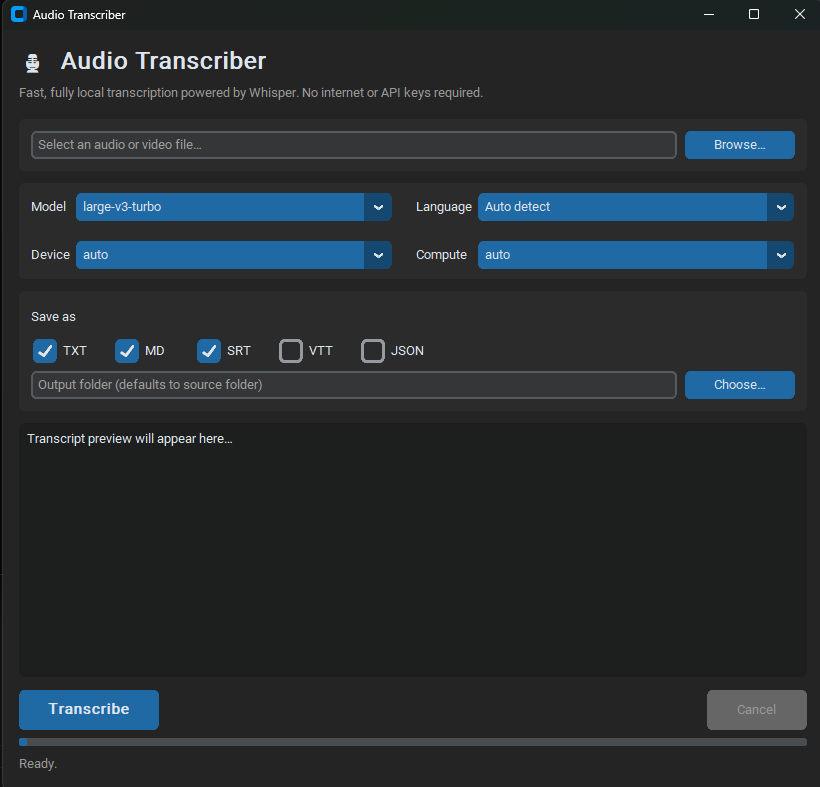
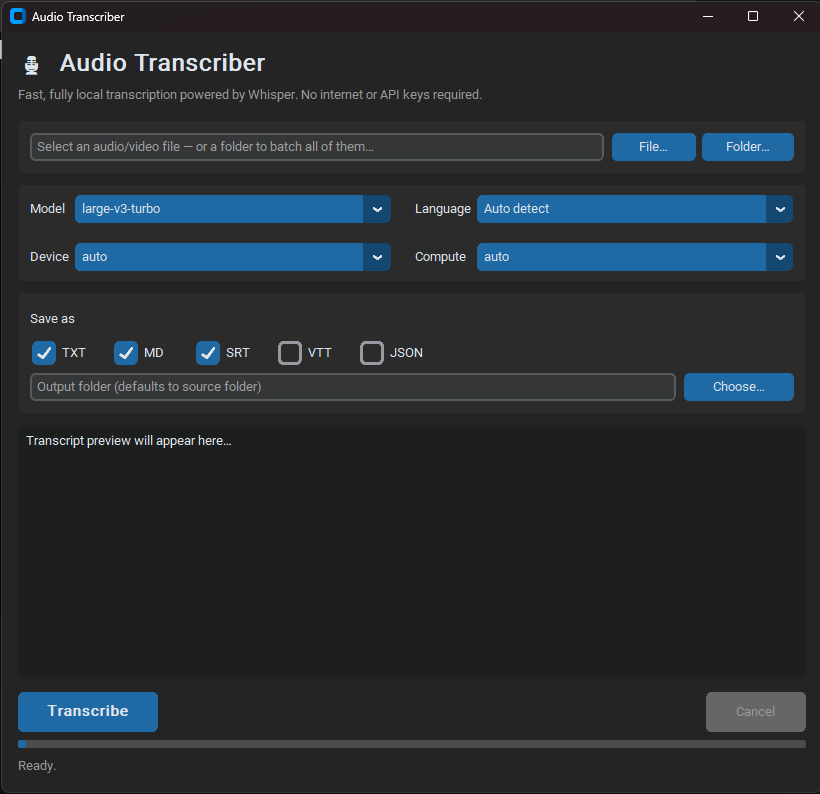
Added folder processing

diff --git a/src/parrotia/app.py b/src/parrotia/app.py
@@ -49,7 +49,7 @@ class TranscriberApp(ctk.CTk):
         self._cancel_event = threading.Event()
         self._events: "queue.Queue[tuple]" = queue.Queue()
         self._result: Optional[TranscriptionResult] = None
-        self._input_path: Optional[Path] = None
+        self._total_jobs = 0
 
         self._build_ui()
         self.after(100, self._drain_events)
@@ -75,18 +75,22 @@ class TranscriberApp(ctk.CTk):
         )
         subtitle.grid(row=1, column=0, sticky="w", padx=16, pady=(0, 12))
 
-        # --- File selection -------------------------------------------------
+        # --- Input selection (a single file, or a whole folder) -------------
         file_frame = ctk.CTkFrame(self)
         file_frame.grid(row=2, column=0, sticky="ew", **pad)
         file_frame.grid_columnconfigure(0, weight=1)
 
         self.file_entry = ctk.CTkEntry(
-            file_frame, placeholder_text="Select an audio or video file…"
+            file_frame,
+            placeholder_text="Select an audio/video file — or a folder to batch all of them…",
         )
         self.file_entry.grid(row=0, column=0, sticky="ew", padx=(12, 8), pady=12)
         ctk.CTkButton(
-            file_frame, text="Browse…", width=110, command=self._browse_input
-        ).grid(row=0, column=1, padx=(0, 12), pady=12)
+            file_frame, text="File…", width=84, command=self._browse_input
+        ).grid(row=0, column=1, padx=(0, 6), pady=12)
+        ctk.CTkButton(
+            file_frame, text="Folder…", width=92, command=self._browse_folder
+        ).grid(row=0, column=2, padx=(0, 12), pady=12)
 
         # --- Options --------------------------------------------------------
         options = ctk.CTkFrame(self)
@@ -184,6 +188,22 @@ class TranscriberApp(ctk.CTk):
             self.file_entry.delete(0, "end")
             self.file_entry.insert(0, path)
 
+    def _browse_folder(self) -> None:
+        path = filedialog.askdirectory(
+            title="Select a folder of audio/video files")
+        if path:
+            self.file_entry.delete(0, "end")
+            self.file_entry.insert(0, path)
+
+    @staticmethod
+    def _collect_audio_files(folder: Path) -> "list[Path]":
+        """Supported audio/video files directly inside ``folder``, sorted."""
+        exts = {ext.lower() for ext in SUPPORTED_EXTENSIONS}
+        return sorted(
+            p for p in folder.iterdir()
+            if p.is_file() and p.suffix.lower() in exts
+        )
+
     def _browse_outdir(self) -> None:
         path = filedialog.askdirectory(title="Select output folder")
         if path:
@@ -196,22 +216,41 @@ class TranscriberApp(ctk.CTk):
 
         raw_path = self.file_entry.get().strip().strip('"')
         if not raw_path:
-            messagebox.showwarning("No file", "Please choose an audio file first.")
+            messagebox.showwarning(
+                "No input", "Please choose an audio file or a folder first.")
             return
         path = Path(raw_path)
-        if not path.is_file():
-            messagebox.showerror("Not found", f"File does not exist:\n{raw_path}")
+
+        # Resolve the input to a list of files to transcribe: a single file, or
+        # every supported audio/video file directly inside a chosen folder.
+        if path.is_dir():
+            jobs = self._collect_audio_files(path)
+            if not jobs:
+                messagebox.showwarning(
+                    "No audio files",
+                    f"No supported audio/video files were found in:\n{raw_path}")
+                return
+        elif path.is_file():
+            jobs = [path]
+        else:
+            messagebox.showerror(
+                "Not found", f"No such file or folder:\n{raw_path}")
             return
-        if not any(var.get() for var in self.format_vars.values()):
+
+        selected_formats = [f for f, v in self.format_vars.items() if v.get()]
+        if not selected_formats:
             messagebox.showwarning(
                 "No format", "Select at least one output format.")
             return
+        outdir_raw = self.outdir_entry.get().strip().strip('"')
 
-        self._input_path = path
+        self._total_jobs = len(jobs)
         self._cancel_event.clear()
         self._set_running(True)
         self._set_preview("")
-        self._set_status("Starting…")
+        self._set_status(
+            f"Starting… ({self._total_jobs} files)"
+            if self._total_jobs > 1 else "Starting…")
         self.progress.set(0.0)
 
         params = dict(
@@ -221,7 +260,9 @@ class TranscriberApp(ctk.CTk):
             compute_type=self.compute_var.get(),
         )
         self._worker = threading.Thread(
-            target=self._run_worker, args=(str(path), params), daemon=True)
+            target=self._run_worker,
+            args=(jobs, params, selected_formats, outdir_raw),
+            daemon=True)
         self._worker.start()
 
     def _cancel_transcription(self) -> None:
@@ -229,20 +270,67 @@ class TranscriberApp(ctk.CTk):
         self._set_status("Cancelling…")
 
     # ------------------------------------------------------------- worker ---
-    def _run_worker(self, path: str, params: dict) -> None:
+    def _run_worker(self, jobs: "list[Path]", params: dict,
+                    selected_formats: "list[str]", outdir_raw: str) -> None:
+        """Transcribe every file in ``jobs`` in turn, on this daemon thread.
+
+        Progress is reported as an overall fraction across all files; a
+        per-file failure is collected and the batch continues. Output files are
+        written here (pure disk I/O on a snapshot of the settings, so no Tk
+        widgets are touched off the main thread).
+        """
+        total = len(jobs)
+        written_all: "list[Path]" = []
+        errors: "list[tuple[Path, str]]" = []
         try:
-            result = self._transcriber.transcribe(
-                path,
-                progress_callback=lambda frac, msg: self._events.put(
-                    ("progress", frac, msg)),
-                cancel_event=self._cancel_event,
-                **params,
-            )
-            self._events.put(("done", result))
-        except TranscriptionCancelled:
-            self._events.put(("cancelled",))
-        except Exception as exc:  # surfaced to the user in the GUI thread
+            for index, source in enumerate(jobs):
+                if self._cancel_event.is_set():
+                    self._events.put(("cancelled",))
+                    return
+
+                base, span = index / total, 1 / total
+
+                def report(frac: float, msg: str, _i=index, _name=source.name) -> None:
+                    overall = base + span * frac
+                    prefix = f"[{_i + 1}/{total}] {_name} — " if total > 1 else ""
+                    self._events.put(("progress", overall, prefix + msg))
+
+                try:
+                    result = self._transcriber.transcribe(
+                        str(source),
+                        progress_callback=report,
+                        cancel_event=self._cancel_event,
+                        **params,
+                    )
+                    written = self._write_result(
+                        result, source, selected_formats, outdir_raw)
+                except TranscriptionCancelled:
+                    self._events.put(("cancelled",))
+                    return
+                except Exception as exc:  # don't let one bad file abort the batch
+                    errors.append((source, str(exc)))
+                    continue
+
+                written_all.extend(written)
+                self._events.put(("file_done", source, result, written))
+
+            self._events.put(("batch_done", written_all, errors, total))
+        except Exception as exc:  # truly unexpected — surface in the GUI thread
             self._events.put(("error", exc, traceback.format_exc()))
+
+    @staticmethod
+    def _write_result(result: TranscriptionResult, source: Path,
+                      selected_formats: "list[str]", outdir_raw: str) -> "list[Path]":
+        outdir = Path(outdir_raw) if outdir_raw else source.parent
+        outdir.mkdir(parents=True, exist_ok=True)
+        stem = source.stem
+        written = []
+        for fmt in selected_formats:
+            extension, writer = formats.WRITERS[fmt]
+            target = outdir / f"{stem}{extension}"
+            target.write_text(writer(result), encoding="utf-8")
+            written.append(target)
+        return written
 
     def _drain_events(self) -> None:
         try:
@@ -259,8 +347,10 @@ class TranscriberApp(ctk.CTk):
             _, fraction, message = event
             self.progress.set(fraction)
             self._set_status(message)
-        elif kind == "done":
-            self._on_done(event[1])
+        elif kind == "file_done":
+            self._on_file_done(event[1], event[2])
+        elif kind == "batch_done":
+            self._on_batch_done(event[1], event[2], event[3])
         elif kind == "cancelled":
             self._set_running(False)
             self.progress.set(0.0)
@@ -271,42 +361,38 @@ class TranscriberApp(ctk.CTk):
             self._set_status("Error.")
             messagebox.showerror("Transcription failed", str(event[1]))
 
-    def _on_done(self, result: TranscriptionResult) -> None:
+    def _on_file_done(self, source: Path, result: TranscriptionResult) -> None:
+        # Show the just-finished transcript; in batch mode prefix a small header
+        # so it's clear which file the preview belongs to.
         self._result = result
-        self.progress.set(1.0)
-        self._set_preview(formats.to_txt(result))
-        try:
-            written = self._write_outputs(result)
-        except Exception as exc:
-            self._set_running(False)
-            messagebox.showerror("Could not save files", str(exc))
-            return
+        text = formats.to_txt(result)
+        if self._total_jobs > 1:
+            text = f"▸ {source.name}\n\n{text}"
+        self._set_preview(text)
+
+    def _on_batch_done(self, written: "list[Path]", errors: list, total: int) -> None:
         self._set_running(False)
+        self.progress.set(1.0)
+        ok = total - len(errors)
+
+        if total == 1 and not errors:
+            self._set_status(
+                "Done. Saved: " + ", ".join(p.name for p in written))
+            messagebox.showinfo(
+                "Transcription complete",
+                "Saved files:\n" + "\n".join(str(p) for p in written))
+            return
+
         self._set_status(
-            f"Done — {len(result.segments)} segments. Saved: "
-            + ", ".join(p.name for p in written)
-        )
-        messagebox.showinfo(
-            "Transcription complete",
-            "Saved files:\n" + "\n".join(str(p) for p in written),
-        )
-
-    def _write_outputs(self, result: TranscriptionResult) -> list:
-        assert self._input_path is not None
-        outdir_raw = self.outdir_entry.get().strip().strip('"')
-        outdir = Path(outdir_raw) if outdir_raw else self._input_path.parent
-        outdir.mkdir(parents=True, exist_ok=True)
-        stem = self._input_path.stem
-
-        written = []
-        for fmt, var in self.format_vars.items():
-            if not var.get():
-                continue
-            extension, writer = formats.WRITERS[fmt]
-            target = outdir / f"{stem}{extension}"
-            target.write_text(writer(result), encoding="utf-8")
-            written.append(target)
-        return written
+            f"Done — {ok}/{total} files transcribed"
+            + (f", {len(errors)} failed." if errors else ", all saved."))
+        lines = [f"Transcribed {ok} of {total} file(s); "
+                 f"saved {len(written)} output file(s)."]
+        if errors:
+            lines.append("")
+            lines.append("Failed:")
+            lines.extend(f"  • {src.name}: {msg}" for src, msg in errors)
+        messagebox.showinfo("Batch complete", "\n".join(lines))
 
     # -------------------------------------------------------------- state ---
     def _set_running(self, running: bool) -> None:

diff --git a/README.md b/README.md
@@ -15,6 +15,7 @@
 
 - **State-of-the-art models** — `tiny` → `large-v3`, plus the fast `large-v3-turbo` and `distil-large-v3` variants
 - **Any language** — auto-detect, or pin a specific language for better accuracy
+- **Single file or whole folder** — transcribe one file, or point the app at a folder to batch every audio/video file inside it
 - **Multiple export formats** — `txt`, `md`, `srt`, `vtt`, `json` — pick any combination
 - **CPU and GPU support** — auto-detects your hardware; gracefully falls back to CPU if the GPU is unavailable
 - **Responsive UI** — transcription runs in a background thread with a live progress bar and a cancel button; the window never freezes
@@ -80,9 +81,9 @@ Or use the platform launcher (runs from source; edit the `PYTHON` variable insid
 | Windows  | double-click `run.bat` |
 | macOS / Linux | `chmod +x run.sh && ./run.sh` |
 
-1. **Browse** to an audio or video file
+1. Pick a single audio/video **File…**, or a **Folder…** to transcribe every supported file inside it
 2. Choose a **model**, **language**, **device**, and **output formats**
-3. Click **Transcribe** — results are saved next to the source file (or in a folder you choose) and previewed in the window
+3. Click **Transcribe** — each file's outputs are saved next to it (or in a folder you choose) and previewed in the window; a batch reports overall progress and a per-file summary at the end
 
 ### Command line
 